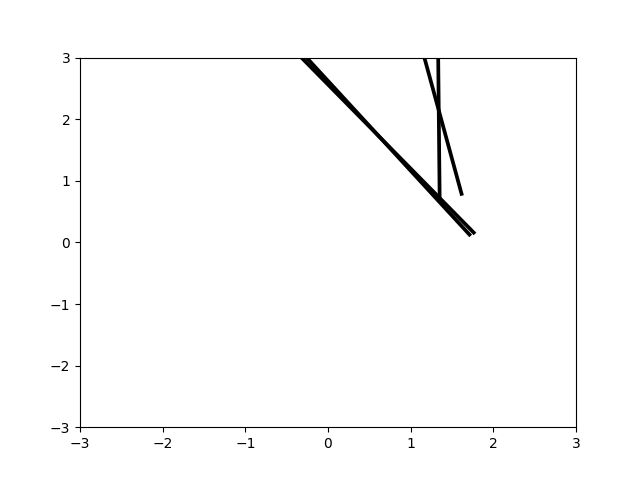
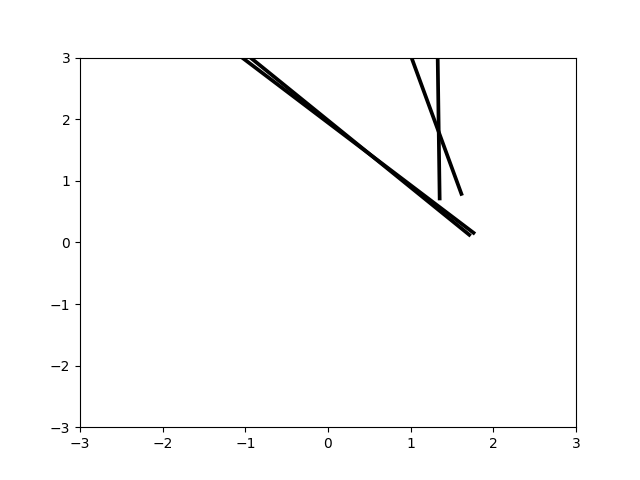
Messing around with the quiver library

Changed region(s): [[0.375, 0.125, 0.75, 0.5], [0.4688, 0.125, 0.5, 0.1562]]

diff --git a/word2blank/ongoing/word2vec-symplectic/visualizer/visualizer.py b/word2blank/ongoing/word2vec-symplectic/visualizer/visualizer.py
@@ -25,7 +25,7 @@ def plot(mat, fname):
     X, Y, U, V= zip(*mat)
     plt.figure()
     ax = plt.gca()
-    ax.quiver(X, Y, U, V, angles='uv', scale_units='xy', scale=0.1, edgecolor=['red', 'blue', 'green', 'yellow'])
+    ax.quiver(X, Y, U, V, angles='xy', scale_units='xy', scale=0.1, edgecolor=['red', 'blue', 'green', 'yellow'])
     ax.set_xlim([-3, 3])
     ax.set_ylim([-3, 3])
     plt.draw()
